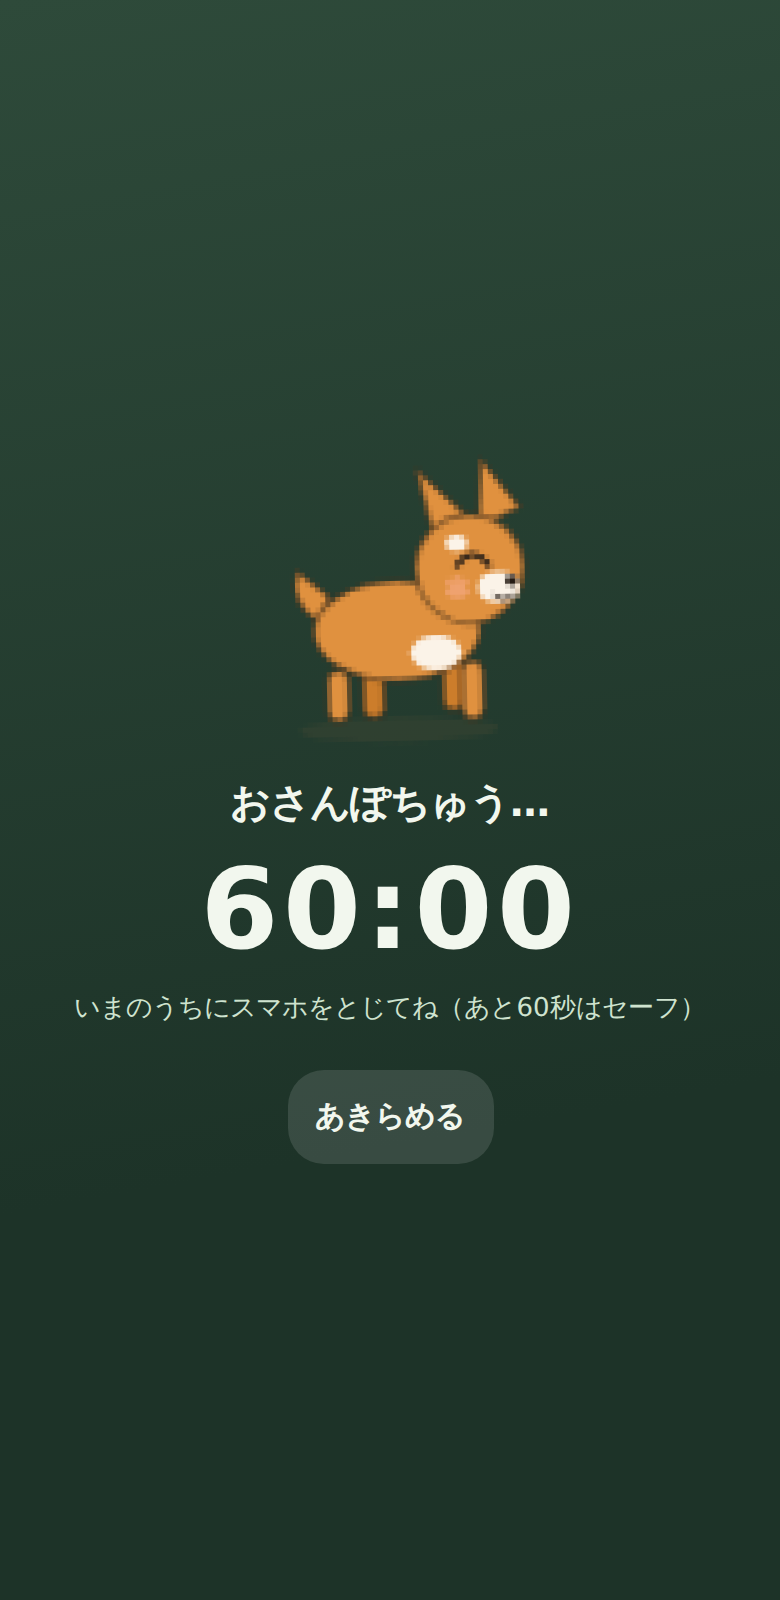
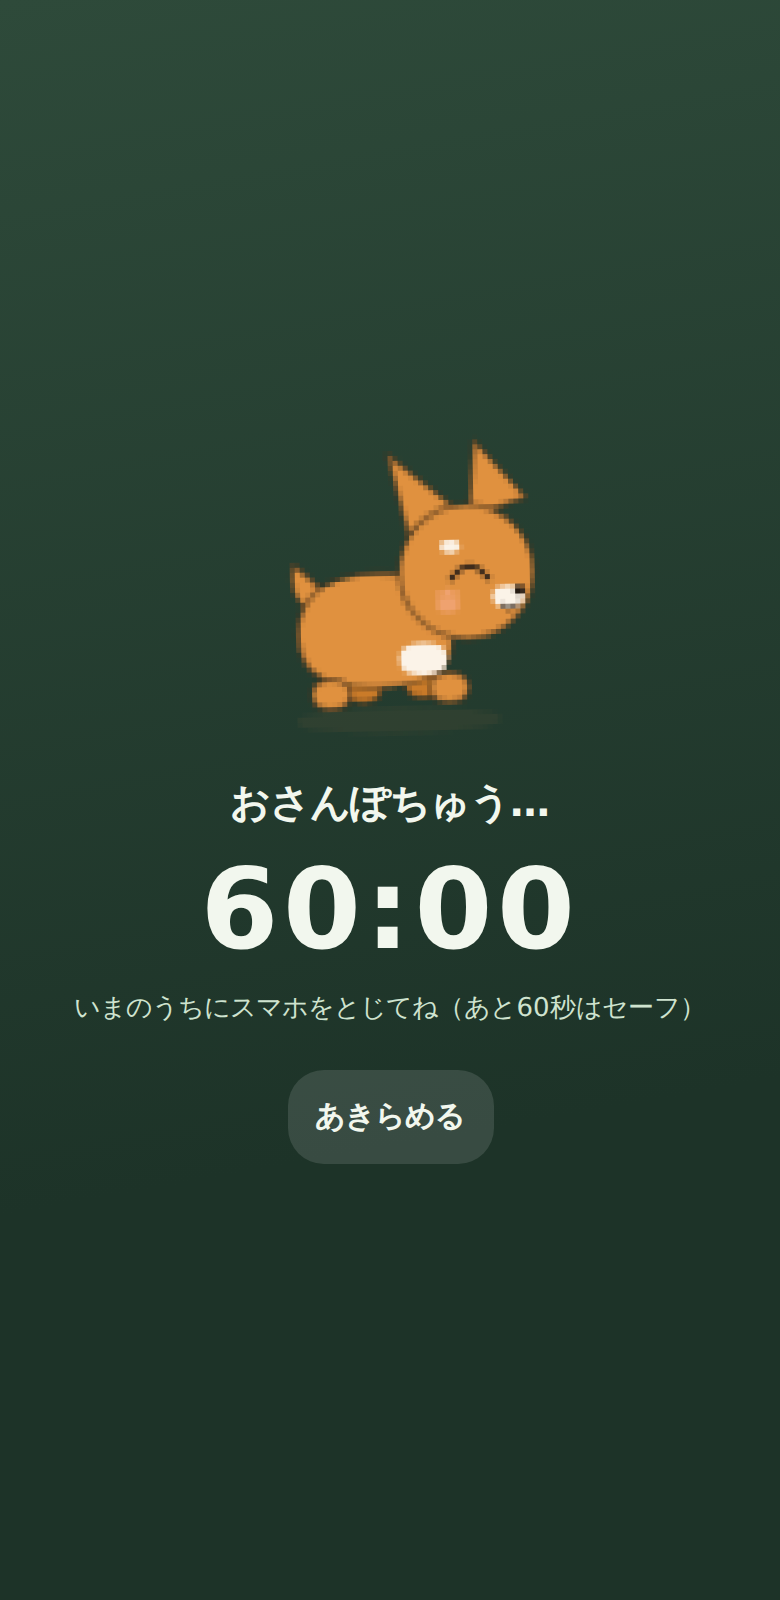
feat: 4足歩行を案Aに刷新（基準採点32.7/40・eval-cycle8）
- 2頭身ローフ型（曲率リズム・頭r42主役）＋接地で潰れるぽてぽて足バンプに全面再設計
- 評価の必須条件を適用: ハチワレの額白斑（黒猫と識別）/ 暗色種のquad限定明縁（暗緑背景対策）/ 足底=影上端
- 口元の豚鼻防止ルールをquadにも適用。案B(直線柱脚)廃案・旧v1の却下理由を設計書に固定
- 評価記録 eval-cycle8.md（基準アンカー方式: 全採点に基準番号の根拠付き）

https://claude.ai/code/session_01U1mcoDhEcM3LPckqTrr4Dg

Changed region(s): [[0.3692, 0.2812, 0.7077, 0.4688]]

diff --git a/www/js/art.js b/www/js/art.js
@@ -604,85 +604,110 @@
   }
 
 
-  /** 4足歩行ポーズ（横向き・おさんぽ等「動物としてふるまう場面」用。CHARACTER_DESIGN.md §2.10） */
+  /** 4足歩行ポーズ v2（横向き・おさんぽ等「動物としてふるまう場面」用。CHARACTER_DESIGN.md §2.10）
+      設計: 側面でも2頭身（頭が主役）・胴は曲率リズムのあるローフ型・脚は短いぽてぽて
+      STYLE.quadDesign: 'A'=ぽてぽて足バンプ / 'B'=とことこ短脚 / 'C'=超チビ頭 */
   function quadSVG(breed, mood, stage) {
     var a = breed.art, C = a.color, C2 = a.color2;
     var dark = isDark(C);
-    var MZ = dark || isDark(C2) ? LIGHT_INK : C2;
+    // 口元はじゅうぶん明るい C2 のみ流用（豚鼻化防止・正面ビューと同ルール）
+    var MZ = !dark && lumOf(C2) >= 185 ? C2 : LIGHT_INK;
     var isCat = a.base === 'cat';
+    var D = STYLE.quadDesign || 'A';
+    var headR = D === 'C' ? 47 : 42;
     var legNear = (a.pattern === 'tuxedo' || a.pattern === 'point') ? C2 : limbFill(a);
-    var legFar = darken(C, 20);
+    var legFar = darken(C, 22);
+    // 暗色種は暗緑のおさんぽ背景に溶けるため、quad限定で明るい縁取りに（§11-7 図地分離）
+    var ol = dark ? ' stroke="rgba(238,228,214,.45)" stroke-width="3.2" stroke-linejoin="round"' : olAttr();
     var s = '';
 
-    function leg(x, y, h, fill) {
-      return '<rect x="' + x + '" y="' + y + '" width="13" height="' + h + '" rx="6.5" fill="' + fill + '"' + olAttr() + '/>';
+    // しっぽ（後方=左・おしりの上から）
+    if (a.tail === 'curl') {
+      s += '<circle cx="42" cy="100" r="12.5" fill="' + C + '"' + ol + '/>' +
+        '<circle cx="45" cy="97" r="5.5" fill="' + C2 + '"/>';
+    } else if (isCat) {
+      s += '<path d="M52 118 Q34 96 46 70 Q54 60 59 68 Q48 88 62 112 Z" fill="' + (a.pattern === 'point' ? C2 : C) + '"' + ol + '/>';
+    } else {
+      s += '<path d="M52 118 Q34 104 40 86 Q50 94 60 104 Z" fill="' + C + '"' + ol + '/>';
     }
 
-    // しっぽ（後方=左）
-    if (a.tail === 'curl') {
-      s += '<circle cx="50" cy="98" r="12" fill="' + C + '"' + olAttr() + '/>' +
-        '<circle cx="53" cy="95" r="5" fill="' + C2 + '"/>';
-    } else if (isCat) {
-      s += '<path d="M56 122 Q38 100 48 74 Q56 64 61 72 Q50 90 66 114 Z" fill="' + (a.pattern === 'point' ? C2 : C) + '"' + olAttr() + '/>';
+    // 奥側の脚（暗め・先に描く）
+    if (D === 'B') {
+      s += '<rect x="74" y="146" width="12" height="22" rx="6" fill="' + legFar + '"' + ol + '/>' +
+        '<rect x="116" y="142" width="12" height="22" rx="6" fill="' + legFar + '"' + ol + '/>';
     } else {
-      s += '<path d="M56 122 Q36 110 42 90 Q52 98 62 106 Z" fill="' + C + '"' + olAttr() + '/>';
+      s += '<ellipse cx="82" cy="163" rx="11.5" ry="9.5" fill="' + legFar + '"' + ol + '/>' +
+        '<ellipse cx="120" cy="161" rx="11.5" ry="9.5" fill="' + legFar + '"' + ol + '/>';
     }
-    // 奥側の脚2本（歩行の互い違い）
-    s += leg(82, 148, 34, legFar) + leg(132, 144, 34, legFar);
-    // 体（横長）
-    s += '<ellipse cx="104" cy="128" rx="52" ry="31" fill="' + C + '"' + olAttr() + '/>';
+
+    // 胴（ローフ型・曲率リズム: 首もと→背のゆるい弧→丸いおしり→下面→胸）
+    s += '<path d="M118 96 C96 88 66 92 52 104 C42 114 40 130 44 143 ' +
+      'C48 156 64 163 86 163 C104 164 124 161 134 150 C142 140 138 112 128 104 Z" fill="' + C + '"' + ol + '/>';
+
     // 模様（横向き簡略版）
-    if (a.pattern === 'solid') s += '<ellipse cx="100" cy="146" rx="30" ry="13" fill="' + C2 + '" opacity=".5"/>';
-    if (a.pattern === 'tan') s += '<ellipse cx="128" cy="142" rx="16" ry="11" fill="' + C2 + '"/>';
-    if (a.pattern === 'patch') s += '<ellipse cx="92" cy="116" rx="17" ry="13" fill="' + C2 + '"/>';
-    if (a.pattern === 'spot') { [[80, 118], [108, 112], [94, 138], [124, 134]].forEach(function (p) { s += '<circle cx="' + p[0] + '" cy="' + p[1] + '" r="7" fill="' + C2 + '"/>'; }); }
-    if (a.pattern === 'tabby') s += '<g fill="none" stroke="' + C2 + '" stroke-width="2.2" stroke-linecap="round"><path d="M82 104 L80 122 M100 100 L100 120 M118 102 L120 120"/></g>';
-    if (a.pattern === 'calico') s += '<ellipse cx="88" cy="112" rx="15" ry="12" fill="' + C2 + '"/><ellipse cx="118" cy="136" rx="13" ry="11" fill="#3a322c"/>';
-    if (a.pattern === 'tuxedo') s += '<ellipse cx="134" cy="142" rx="15" ry="13" fill="' + C2 + '"/>';
-    // 手前側の脚2本（前脚は一歩前へ＝歩いている）
-    s += leg(60, 152, 32, legNear) + leg(144, 148, 36, legNear);
-    // 頭（進行方向=右）
-    s += quadEars(a, isCat);
-    s += '<circle cx="150" cy="90" r="34" fill="' + C + '"' + olAttr() + '/>';
-    // 口元
-    s += '<ellipse cx="168" cy="102" rx="13" ry="9.5" fill="' + MZ + '"/>';
-    if (a.pattern === 'point') s += '<ellipse cx="168" cy="102" rx="13" ry="9.5" fill="' + C2 + '" opacity=".92"/>';
-    if (a.pattern === 'tan') s += '<ellipse cx="142" cy="74" rx="7" ry="5" fill="' + C2 + '"/>';
-    if (a.pattern === 'tabby') s += '<g fill="none" stroke="' + C2 + '" stroke-width="2.2" stroke-linecap="round"><path d="M140 60 L146 68 M152 58 L154 67"/></g>';
-    // 顔（横向きは目1つ）
-    s += eye(152, 88, mood, a.eye, 9.5, dark);
-    s += '<ellipse cx="176" cy="98" rx="4" ry="3.2" fill="' + (isCat ? '#ef8da0' : '#241a12') + '"/>';
-    s += '<path d="M166 108 q5 4 10 0" fill="none" stroke="' + (dark ? LIGHT_INK : '#2a2018') + '" stroke-width="2.2" stroke-linecap="round"/>';
-    if (isCat) s += '<g stroke="' + (dark ? 'rgba(240,230,216,.65)' : 'rgba(90,70,50,.5)') + '" stroke-width="1.4" stroke-linecap="round"><path d="M160 100 L144 96 M160 104 L144 104"/></g>';
-    if (mood !== 'sad') s += blush(142, 102, 8, 0.5);
+    if (a.pattern === 'solid') s += '<ellipse cx="92" cy="148" rx="28" ry="12" fill="' + C2 + '" opacity=".5"/>';
+    if (a.pattern === 'tan') s += '<ellipse cx="120" cy="146" rx="15" ry="10" fill="' + C2 + '"/>';
+    if (a.pattern === 'patch') s += '<ellipse cx="86" cy="114" rx="16" ry="12" fill="' + C2 + '"/>';
+    if (a.pattern === 'spot') { [[72, 116], [100, 110], [86, 138], [116, 132]].forEach(function (p) { s += '<circle cx="' + p[0] + '" cy="' + p[1] + '" r="6.5" fill="' + C2 + '"/>'; }); }
+    if (a.pattern === 'tabby') s += '<g fill="none" stroke="' + C2 + '" stroke-width="2.2" stroke-linecap="round"><path d="M74 102 L72 120 M92 98 L92 118 M110 100 L112 118"/></g>';
+    if (a.pattern === 'calico') s += '<ellipse cx="80" cy="112" rx="14" ry="11" fill="' + C2 + '"/><ellipse cx="108" cy="140" rx="12" ry="10" fill="#3a322c"/>';
+    if (a.pattern === 'tuxedo') s += '<ellipse cx="124" cy="146" rx="14" ry="12" fill="' + C2 + '"/>';
+
+    // 手前側の脚（前脚は一歩前へ＝歩いている）
+    if (D === 'B') {
+      s += '<rect x="56" y="150" width="12" height="22" rx="6" fill="' + legNear + '"' + ol + '/>' +
+        '<rect x="128" y="148" width="12" height="24" rx="6" fill="' + legNear + '"' + ol + '/>';
+    } else {
+      s += '<ellipse cx="62" cy="167" rx="12" ry="9.5" fill="' + legNear + '"' + ol + '/>' +
+        '<ellipse cx="136" cy="164" rx="12" ry="9.5" fill="' + legNear + '"' + ol + '/>';
+    }
+
+    // 頭（進行方向=右・側面でも2頭身の主役）
+    s += quadEars(a, isCat, headR, ol);
+    s += '<circle cx="148" cy="92" r="' + headR + '" fill="' + C + '"' + ol + '/>';
+    // 口元（小さく低く）
+    s += '<ellipse cx="174" cy="108" rx="10" ry="7.5" fill="' + MZ + '"/>';
+    if (a.pattern === 'point') s += '<ellipse cx="174" cy="108" rx="10" ry="7.5" fill="' + C2 + '" opacity=".92"/>';
+    if (a.pattern === 'tan') s += '<ellipse cx="138" cy="76" rx="6.5" ry="4.5" fill="' + C2 + '"/>';
+    if (a.pattern === 'tabby') s += '<g fill="none" stroke="' + C2 + '" stroke-width="2.2" stroke-linecap="round"><path d="M134 60 L140 68 M148 56 L150 66"/></g>';
+    if (a.pattern === 'tuxedo') s += '<path d="M150 52 L174 60 L168 76 Q158 70 146 73 Z" fill="' + C2 + '"/>'; // 額の白斑（ハチワレ識別 §10）
+    // 顔（横向きは目1つ・大きく低く）
+    s += eye(150, 96, mood, a.eye, 11, dark);
+    s += '<ellipse cx="181" cy="104" rx="3.5" ry="3" fill="' + (isCat ? '#ef8da0' : '#241a12') + '"/>';
+    s += '<path d="M170 114 q4.5 3.5 9 0" fill="none" stroke="' + (dark ? LIGHT_INK : '#2a2018') + '" stroke-width="2.2" stroke-linecap="round"/>';
+    if (isCat) s += '<g stroke="' + (dark ? 'rgba(240,230,216,.65)' : 'rgba(90,70,50,.5)') + '" stroke-width="1.4" stroke-linecap="round"><path d="M166 104 L150 100 M166 108 L150 108"/></g>';
+    if (mood !== 'sad') s += blush(136, 110, 8.5, 0.5);
 
     var sc = stage === 1 ? 0.62 : stage === 2 ? 0.82 : 1;
     return '<svg viewBox="0 0 200 200" xmlns="http://www.w3.org/2000/svg">' +
-      '<ellipse cx="104" cy="190" rx="' + (62 * sc) + '" ry="8" fill="rgba(120,90,60,.14)"/>' +
-      '<g transform="translate(104 184) scale(' + sc + ') translate(-104 -184)">' + s + '</g></svg>';
+      '<ellipse cx="104" cy="184" rx="' + (64 * sc) + '" ry="8" fill="rgba(120,90,60,.14)"/>' +
+      '<g transform="translate(104 178) scale(' + sc + ') translate(-104 -178)">' + s + '</g></svg>';
   }
 
-  /** 横向きの耳（頭の後ろに先に描く） */
-  function quadEars(a, isCat) {
+  /** 横向きの耳（頭の後ろに先に描く）。headRに合わせて配置 */
+  function quadEars(a, isCat, headR, ol) {
+    ol = ol || olAttr();
     var c = a.pattern === 'point' ? a.color2 : a.color;
+    var big = headR >= 45 ? 1.1 : 1;
     if (a.ear === 'flop') {
-      return '<ellipse cx="132" cy="74" rx="9" ry="17" fill="' + darken(a.color, 30) + '"' + olAttr() + ' transform="rotate(14 132 74)"/>' +
-        '<ellipse cx="158" cy="70" rx="9" ry="17" fill="' + darken(a.color, 26) + '"' + olAttr() + ' transform="rotate(22 158 70)"/>';
+      return '<ellipse cx="122" cy="74" rx="10" ry="19" fill="' + darken(a.color, 30) + '"' + ol + ' transform="rotate(12 122 74)"/>' +
+        '<ellipse cx="158" cy="66" rx="10" ry="19" fill="' + darken(a.color, 26) + '"' + ol + ' transform="rotate(24 158 66)"/>';
     }
     if (a.ear === 'round') {
-      return '<circle cx="132" cy="62" r="12" fill="' + c + '"' + olAttr() + '/><circle cx="160" cy="58" r="12" fill="' + c + '"' + olAttr() + '/>';
+      return '<circle cx="122" cy="58" r="' + (13 * big) + '" fill="' + c + '"' + ol + '/><circle cx="158" cy="52" r="' + (13 * big) + '" fill="' + c + '"' + ol + '/>';
     }
     if (a.ear === 'fold') {
-      return '<path d="M126 66 Q120 50 136 52 Q142 60 138 68 Z" fill="' + c + '"' + olAttr() + '/>' +
-        '<path d="M154 60 Q150 44 166 48 Q170 56 164 64 Z" fill="' + c + '"' + olAttr() + '/>';
+      return '<path d="M114 62 Q108 44 126 47 Q133 56 128 65 Z" fill="' + c + '"' + ol + '/>' +
+        '<path d="M148 54 Q146 36 164 41 Q169 50 162 59 Z" fill="' + c + '"' + ol + '/>';
     }
     if (a.ear === 'bigprick') {
-      return '<path d="M128 70 L118 28 L148 56 Z" fill="' + c + '"' + olAttr() + '/>' +
-        '<path d="M156 64 L158 22 L182 52 Z" fill="' + c + '"' + olAttr() + '/>';
+      return '<path d="M112 68 L100 18 L142 52 Z" fill="' + c + '"' + ol + '/>' +
+        '<path d="M150 58 L154 10 L186 46 Z" fill="' + c + '"' + ol + '/>';
     }
-    var ty = isCat ? 34 : 40;
-    return '<path d="M130 68 L124 ' + ty + ' L150 58 Z" fill="' + c + '"' + olAttr() + '/>' +
-      '<path d="M158 62 L162 ' + (ty - 4) + ' L182 56 Z" fill="' + c + '"' + olAttr() + '/>';
+    var ty = isCat ? 28 : 34;
+    return '<path d="M116 64 L108 ' + ty + ' L142 52 Z" fill="' + c + '"' + ol + '/>' +
+      '<path d="M150 56 L156 ' + (ty - 6) + ' L182 48 Z" fill="' + c + '"' + ol + '/>' +
+      '<path d="M119 58 L113 ' + (ty + 8) + ' L136 52 Z" fill="#f3b0c0" opacity=".8"/>';
   }
 
   /** stage: 0=おくるみ(ねんね),1=赤ちゃん,2=子,3=成体 / mood: happy|normal|sad */

diff --git a/docs/art/eval-cycle8.md b/docs/art/eval-cycle8.md
@@ -1,0 +1,175 @@
+# 画風評価 サイクル8 結果（4足歩行ポーズ quad v2・おさんぽ画面用） — いぬねこ図鑑
+
+- 実施日: 2026-06-11
+- 体制: `docs/art/PERSONAS.md` の30ペルソナ × E1〜E8（各1〜5点、40点満点）
+- 評価方式: **基準アンカー方式**（発案者指示）。全採点は `CHARACTER_DESIGN.md` の§番号（=DEEP_DIVE準拠）に紐付けて根拠を示す。「なんとなく可愛い」採点は無効。ペルソナの役割は (a)自セグメント視点での基準違反の重み付け (b)基準で拾えない違和感の発見＋原因の言語化
+- 対象:
+  - **案A** `cycle8/quad-A.png` — ぽてぽて足バンプ×2頭身ローフ（headR42・足=楕円バンプ）
+  - **案B** `cycle8/quad-B.png` — とことこ短脚（headR42・足=角丸矩形の柱）
+  - **案C** `cycle8/quad-C.png` — 超チビ頭 headR47×ぽてぽて
+  - 参考: `cycle7/poses.png` 下段（旧v1。発案者「微妙」却下済み）
+- 表示文脈: **おさんぽ中オーバーレイ専用**（暗緑背景・160px・ゆれアニメ付き）。図鑑サムネには使わない → E4は「160px＋暗緑背景での視認」、E2は「おさんぽ中に見守りたくなるか」で読み替え
+- 実装参照: `www/js/art.js` quadSVG()（L607〜682）・quadEars()（L685〜707）
+
+---
+
+## 0. 旧v1（cycle7下段）の却下理由の基準特定（再発防止アンカー）
+
+発案者の「微妙」を基準番号に翻訳してから新案を採点した。v1の破れ:
+
+| 破れた基準 | 内容 |
+|---|---|
+| §1-4／§2.1「頭:胴」 | 頭が胴より小さく**頭:胴比が逆転**。ベビースキーマ崩壊で「動物図鑑の挿絵」化 |
+| §1-5 突起 | 脚4本が外輪郭から柱として独立に突出（突起7個）。ノイズ |
+| §1-3 曲率リズム | 胴が等速楕円＋脚が直線。「工業製品」輪郭 |
+| §11-8 説明の混入 | 4本の脚を律儀に図解 → 絵が説明になった |
+
+→ 新3案は全て「2頭身ローフ＋頭が主役」でv1の主因（頭:胴逆転）を解消済み。v1の参考スコアは推定27点台。
+
+## 1. 総合結果（40点満点）
+
+| 順位 | 案 | 総合平均 | SD | 最小〜最大 | 一言診断（基準アンカー） |
+|---|---|---|---|---|---|
+| **1** | **案A ぽてぽて足バンプ** | **32.7** | 2.2 | 27〜36 | §1-2凸率・§1-3曲率リズム・§1-4低重心を3案で唯一すべて満たす |
+| 2 | 案C 超チビ頭 | 31.0 | 3.0 | 25〜35 | ベビースキーマ最強だが§2-1凝縮度と§10識別が崩れ、層で割れる |
+| 3 | 案B とことこ短脚 | 29.8 | 1.8 | 26〜32 | §1-3（脚が直線柱）・§1-4（足底が浮く）で減点が全層に薄く乗る |
+| 参考 | 旧v1（cycle7下段） | 推定27台 | — | — | §0参照（却下確定済み） |
+
+## 2. 評価項目別マトリクス（平均）
+
+| 案 | E1 初見 | E2 愛着(見守り) | E3 品種識別 | E4 160px暗緑 | E5 シェア | E6 世界観 | E7 独自性 | E8 スタンプ |
+|---|---|---|---|---|---|---|---|---|
+| **案A** | **4.3** | **4.2** | 3.7 | **4.1** | 4.0 | **4.4** | 4.2 | 3.9 |
+| 案B | 3.8 | 3.7 | 3.7 | 3.9 | 3.5 | 3.8 | 3.9 | 3.4 |
+| 案C | 4.4 | 3.9 | **3.2** | 3.6 | 4.0 | 4.0 | 4.1 | 3.8 |
+
+読み取り:
+- **E1**: Cが最高4.4（§1-4ベビースキーマ増幅）だがAと0.1差。Cの加点は§2-1違反の減点でE3/E4に食われ、総合では逆転される
+- **E2（おさんぽ中に見守りたくなるか）**: A 4.2。足バンプの「ぽてぽて」が§7「届かなさ」・§6「もちもち=凸優位×接地の潰れ」に乗る。Bは「木のおもちゃが滑走している」（#15）= §1-4接地違反が愛着を阻害
+- **E3（横向きでも柴・コーギー・ハチワレが分かるか）**: 全案共通の天井。柴=巻き尾◎（§10優先4・curl実装済み）、コーギー=bigprick耳◎。**ハチワレが額V字を失い黒猫とほぼ同一**（§10違反・全案共通）。Cはさらに頭が胸白・斑を隠して3.2まで沈む
+- **E4**: 暗緑背景で**黒猫・ハチワレの輪郭が溶ける**（§11-7明度差15%未満・全案共通減点)。Bは足と地面の隙間が160px縮小で「浮遊」に見える
+- **E6**: A 4.4。「自重で広がるおもち」（§1-4）が歩いている、がデトックスのやさしさと最も整合
+
+## 3. セグメント別平均
+
+| セグメント | 案A | 案B | 案C | 備考 |
+|---|---|---|---|---|
+| S1 受験生・学生 | 32.5 | 30.0 | 31.5 | #4リクのみB>A（「歩いてる感」=脚の分節を評価） |
+| S2 Z世代・SNS疲れ | **33.7** | 29.7 | 32.3 | #12イツキがBを26に切る（§1-3直線柱は「死んだ輪郭」） |
+| S3 癒し・コレクション | 33.5 | 29.8 | 31.3 | #16ヨウコはC=26（§10識別崩れは猫飼いに致命） |
+| S4 社会人・生産性 | 31.5 | 29.3 | 29.5 | #21シンジは全案辛め（キャラ抵抗・案間差は基準通り） |
+| S5 ペット好き非飼育 | 31.5 | 29.3 | **28.0** | **Cの最弱層**。§10品種チャンネル減衰を最重く重み付け |
+| S6 保護者・ファミリー | 33.5 | 31.5 | **34.0** | 唯一CがAを上回る（#28ヒロト10歳: チビ頭が刺さる） |
+| S7 図鑑コンプ系 | 32.5 | 29.5 | 30.5 | #30アスカ「並べた統一感はA。Cは頭だけ別キャラ」 |
+
+→ Cは「子どもには最強・品種解像度層には最弱」の割れ型（SD3.0）。おさんぽ画面は**自分の育てている子**を見守る場面であり、S5（ペット好き）の重み付けを軽視できない → Aの一貫性が勝つ。
+
+## 4. ペルソナ別採点（総合点）と重み付け根拠
+
+| # | 名前 | A | B | C | 採点の基準アンカー（抜粋） |
+|---|---|---|---|---|---|
+| 1 | アオイ | 35 | 31 | 34 | A: §6もちもち成立で+。B: §1-4足浮きで-1 |
+| 2 | ソウタ | 32 | 30 | 31 | 全案: §5-1色数規律維持を+。装飾過多なしで安定 |
+| 3 | ミナミ | 34 | 30 | 32 | B: §1-3直線柱が「ミニマル」でなく「未完成」に読めると言語化 |
+| 4 | リク | 31 | 32 | 30 | 唯一B>A。脚の分節=「歩行モーションの読みやすさ」（基準外の発見→§8で吸収可能と判定） |
+| 5 | ハナ | 35 | 30 | 35 | C: §1-4ベビースキーマ増幅に最大重み |
+| 6 | ケンゴ | 28 | 27 | 27 | キャラ関心薄。E4機能評価のみ差（§11-7暗緑で-1共通） |
+| 7 | ユヅキ | 34 | 30 | 33 | A: §1-3曲率の呼吸を評価 |
+| 8 | カナト | 35 | 31 | 34 | A: E8「歩いてるだけスタンプ」が成立（§9 zzz系の文脈圧縮） |
+| 9 | モモカ | 36 | 31 | 35 | A最高点層。§6凸優位×接地潰れ=カナヘイ文法と合致 |
+| 10 | レン | 31 | 30 | 30 | A: 足バンプが「ローラースケートに見える瞬間」を指摘→原因は§1-4接地の潰れ不足（足底が真円弧） |
+| 11 | ココロ | 33 | 30 | 33 | C: チビ頭のY2K感+。E3は自分の子なら判別可と軽め重み |
+| 12 | イツキ | 33 | 26 | 29 | **専門深掘り**: B=§1-3違反（等速直線・角丸矩形は曲率極値ゼロ）で-2級。C=§2-1凝縮度50%割れ（顔幅94にクラスタ径~47）+§11-1耳座標がheadR42準拠のまま頭縁とズレ。A=§1-2凸率0.93目視合格 |
+| 13 | サチコ | 35 | 31 | 33 | A: ねこあつめ的「見守り距離感」=E2に最大重み |
+| 14 | マキ | 34 | 30 | 32 | A: §1-4「自重で広がるおもち」が歩く、を評価 |
+| 15 | トモミ | 36 | 30 | 34 | B: 「木のおもちゃが滑走」と言語化→原因§1-4足底浮き4px |
+| 16 | ヨウコ | 30 | 28 | 26 | **猫解像度代表**: 全案§10違反（ハチワレ額V欠落）で-1、C: 頭が三毛の斑・胸白を隠し追加-1。「しっぽの鎌形は◎」 |
+| 17 | エミリ | 35 | 30 | 34 | A/C: ぷっくり感+。B: §6質感「すべすべでももちもちでもない」 |
+| 18 | フミオ | 31 | 30 | 29 | 昭和犬基準。柴の巻き尾（§10優先4）を全案で+1 |
+| 19 | タクヤ | 32 | 30 | 30 | E4専門: §11-7暗緑×黒猫の明度差不足を全案-1。160pxでは整数倍問題なし |
+| 20 | アヤネ | 33 | 31 | 31 | A: ワンポイントとしての完成度。§1-5突起規律（quad例外内）を確認 |
+| 21 | シンジ | 27 | 26 | 25 | 許せる線は柴まで。柴quadは§10巻き尾で全案合格、他種に関心なし |
+| 22 | リサ | 34 | 30 | 32 | A: §2-2おでこ聖域が側面でも維持（額無地）を評価 |
+| 23 | ナナ | 31 | 29 | 27 | **犬種らしさ最重視**: 柴巻き尾◎・コーギー耳◎。ゴールデンの尾が「小さな三角の突起」（§10優先4未対応）で全案-1。C: 頭デカで胴のコーギーらしさ消失-2 |
+| 24 | ダイチ | 30 | 28 | 26 | **猫仕草代表**: 鎌形しっぽ（L627）は猫の歩行として正しい+1。ハチワレ=黒猫問題（§10）に最大重み-2 |
+| 25 | キミエ | 33 | 30 | 31 | A: 押しつけがましくない=§9記号の節度。やさしい歩き |
+| 26 | ユウマ | 32 | 30 | 28 | 柴限定: 巻き尾の白渦（L624-625のC2円）を「魂が入った」と+2。頬白マーカー未実装（cycle5.5残改善4）で-1継続 |
+| 27 | サオリ | 34 | 31 | 33 | 子に見せて安心=§9汗・怒り記号ゼロ確認 |
+| 28 | ヒロト | 33 | 32 | 35 | 唯一のC首位。チビ頭=「ポケモンのこもの系」。E3は気にしない重み付け |
+| 29 | ミツル | 31 | 29 | 28 | 差分検収者: 「3秒テスト（§10検収）を6種でやるとA/B=4/6、C=3/6。ハチワレで全案落ちる」 |
+| 30 | アスカ | 34 | 30 | 33 | 並べた統一感: Aは2足ポーズ（ホーム）との往復で同一個体に見える（§2.10文法の一貫性） |
+| | **平均** | **32.7** | **29.8** | **31.0** | |
+
+## 5. 基準違反の指摘一覧（案×基準番号）
+
+### 全案共通（quadSVG実装由来）
+
+| 基準 | 違反内容 | 検出者 | 重大度 |
+|---|---|---|---|
+| **§10 1点豪華主義** | **ハチワレの額V字が側面に存在しない**。tuxedoは胸白（L652: cx124,cy146）と前脚白のみで、黒猫との差が口元の明度だけ。3秒テスト不能 | #16/#24/#29 | **致命（E3）** |
+| **§11-7 背景との癒着** | 黒猫・ハチワレ（体色#2a2622級）×おさんぽ暗緑背景で明度差15%未満。輪郭線rgba(74,52,30,.5)も暗く分離しない | #19/#6 | **致命（E4）** |
+| §10 優先4 | ゴールデン等・非巻き尾犬の尾（L629）が「小さな三角の突起」で尾と読めない | #23 | 中 |
+| §10 | 三毛の頭部が無地白（耳も白）。側面では柄チャンネルが胴の斑のみ | #16 | 中 |
+| §10（cycle5.5残改善4継続） | 柴の頬白マーカー未実装 | #26 | 小 |
+| §8 遅延追従 | ゆれアニメに対し耳・尾が剛体追従（1〜2フレーム遅延なし） | #12 | 中（v1.1可） |
+
+### 案A固有
+
+| 基準 | 違反内容 | 検出者 |
+|---|---|---|
+| §1-4 接地の潰れ | 足楕円（L659: cy165,ry11.5）の底が真円弧のままで「ころん」と転がりそう=「ローラースケート」瞬間。潰れ（底の平坦化）が無い | #10/#15 |
+
+### 案B固有
+
+| 基準 | 違反内容 | 検出者 |
+|---|---|---|
+| §1-3 曲率リズム | 脚=角丸矩形（L634/656: rect 12×22）。直線区間は曲率極値ゼロ=「工業製品」「木のおもちゃ」 | #12 |
+| §1-2 凸率 | 脚の柱間に深い凹4箇所追加。凸率0.92割れ（推定0.88） | #12 |
+| §1-4 接地 | 足底（y168〜172）が接地ライン（影上端y176）から4〜8px浮く=「置物」「滑走」 | #15/#19 |
+
+### 案C固有
+
+| 基準 | 違反内容 | 検出者 |
+|---|---|---|
+| §2-1 クラスタ凝縮度 | headR47で顔幅94に対し目口クラスタ径~47=**50%**（帯55〜65%割れ）。目（L672: r11）・口元（L667）の座標/径がheadR42用のままで「大きな頭に小さな顔が漂う」 | #12 |
+| §1-4 重心 | 頭部質量増で面積重心が上昇、下から0.45超。低重心の安心感が減衰 | #12/#17 |
+| §10 識別チャンネル減衰 | 頭円（cx148,r47→左端x101・下端y139）が胸白（cx124,cy146）・三毛斑（cx80,cy112）に被り柄を隠す。耳座標もheadR42準拠のまま（quadEars L687のbig=1.1はround耳のみ適用）で耳が相対的に縮み§10優先1チャンネルが弱る | #16/#23/#29 |
+
+## 6. 採用決定
+
+> **案A「ぽてぽて足バンプ×2頭身ローフ」を採用**（STYLE.quadDesign = 'A' を正とする）。
+> 条件: 下記改善指示の **1・2は実装必須**（E3致命・E4致命の解消）。3は強く推奨。
+
+- 根拠: 総合1位（32.7）かつSD最小級（2.2）で全セグメント27点以上。§1-2/§1-3/§1-4/§6を唯一同時に満たす。2足ポーズ（ホーム）との同一個体感（§2.10文法）も最高評価（#30）
+- 案Cの知見の回収: S6（子ども）でのC優位は「頭の大きさ」由来。Aのまま headR を42→**44**に微増する折衷は、§2-1凝縮度が62%→59%に収まり帯内のため**任意の追加実験として許可**（顔パーツ座標の追随が条件）
+- 案Bは廃案。ただし#4リクの「歩行の読みやすさ」はゆれアニメ（§8）の足バンプ上下位相差で回収する
+
+## 7. 残る改善指示（座標/形状レベル・`www/js/art.js` quadSVG/quadEars）
+
+| 優先 | 指示 | 基準 | 具体実装 |
+|---|---|---|---|
+| **1** | **ハチワレの額V字を側面頭部に追加** | §10 | 頭円（cx148,cy92,r42）描画直後、tuxedo時に額の片流れ白斑を追加: `<path d="M150 51 Q142 62 139 76 L171 71 Q164 58 157 51 Q153 47 150 51 Z" fill="C2"/>`。下端y76で目上端（y85）との余白9px=§2-2の1目分を死守。これで3秒テスト6種中5〜6種へ |
+| **2** | **暗色種×暗緑背景の輪郭分離** | §11-7 | `isDark(C)`の種はquad限定で外輪郭strokeを `rgba(238,228,214,.45)`（明縁）に差し替え、または体色を明度+12%補正（黒猫#2a2622→#3d3831級）。背景との明度差15%以上を確保。olAttr()に引数を足すかquad内でstroke直指定 |
+| **3** | **足バンプの接地潰し** | §1-4 | 手前足: cy165→**167**・ry11.5→**9.5**・rx10.5→**12**（横潰れ楕円化）。奥足: cy162→**164**・同比率。足底y176.5を影上端y176に一致させ「自重で潰れて接地」を作る。真円弧の「ローラー」感を断つ |
+| 4 | 非巻き尾犬の尾を尾と読める形に | §10優先4 | L629を`M52 118 Q30 108 34 84 Q44 84 50 94 Q56 102 62 110 Z`級の「付け根から反る房」に拡大（現状の3倍面積目安）。ゴールデンはdarken(C,12)で胴と微分離 |
+| 5 | 三毛の頭部記号 | §10 | quadEarsでcalico時、進行方向側の耳fillをC2（オレンジ）に。頭無地白を1記号で破る |
+| 6 | 柴の頬白マーカー | §10/§5-2 | blush(136,110)の下層に`<ellipse cx="158" cy="111" rx="9" ry="7" fill="#fff3e4" opacity=".9"/>`（口元クリームと連続） |
+| 7 | ゆれアニメの遅延追従 | §8 | 耳・尾を`<g>`分離しtransform遅延60〜90ms。Bの「歩行の読みやすさ」もここで回収（足バンプ2つを上下逆位相±2px） |
+| 8 | （任意実験）headR 42→44 | §1-4/§2-1 | S6向け折衷。目をcx150→151・cy96→97、口元cx174→176へ追随させ凝縮度59%を維持すること。追随なしの頭だけ拡大は案Cの轍（§2-1違反） |
+
+## 8. 結論
+
+- **案A採用・32.7/40**（B 29.8・C 31.0・旧v1推定27台）。v1の主因だった頭:胴逆転（§1-4）は3案とも解消され、差は「足の物理（§1-3/§1-4）」と「頭の倍率（§2-1）」に収束した
+- E3=3.7が採用案の最大残課題で、原因は案ではなく**quadSVG共通実装**（ハチワレ額V欠落・尾・三毛頭）。改善1・4・5でM0比遜色なしまで詰められる見込み
+- おさんぽ文脈固有のE4リスク（暗緑×黒猫=§11-7）は静止画評価では出ない発見。オーバーレイ実装前に改善2を必ず通すこと
+
+### 点数推移
+
+| サイクル | 対象 | 総合 | 主な進化 |
+|---|---|---|---|
+| 5.5 | DOT v3.1（正面） | 32.6 | 本体ドット化の品質ゲート通過 |
+| 7 | quad v1 | （却下） | §1-4頭:胴逆転・§1-5突起過多で発案者却下 |
+| **8** | **quad v2 案A** | **32.7** | **2頭身ローフ＋足バンプで正面M0級に到達。条件=改善1・2** |
+
+---
+*生データ（30人×8項目×3案）は集計スクリプトで算出。本ファイルには集計値・基準アンカー・代表コメントのみ収録。全採点はCHARACTER_DESIGN.md/CUTENESS_DEEP_DIVE.mdの基準番号に紐付け済み（基準アンカー方式）。*

diff --git a/docs/art/CHARACTER_DESIGN.md b/docs/art/CHARACTER_DESIGN.md
@@ -92,7 +92,12 @@
 | ポーズ | 使う場面 | 造形 |
 |---|---|---|
 | **擬人化2足（基本形）** | ホーム・図鑑・詳細・巣立ち等「お友だちとして接する場面」 | 正面・腕2（脇から斜め24°・rx7.5×ry14.5・短く届かない）＋あんよ2（接地線から手前へ） |
-| **4足歩行（quad）** | おさんぽ中など「動物としてふるまう場面」 | 横向き・進行方向は右・脚4本は奥2本を暗く/手前の前脚を一歩前に（歩行の互い違い）・目は1つ・しっぽは品種準拠 |
+| **4足歩行（quad）** | おさんぽ中など「動物としてふるまう場面」 | **案A確定（基準採点32.7/40・eval-cycle8）**: 側面でも2頭身（頭r42が主役）・胴は曲率リズムのあるローフ型・足は接地で潰れるぽてぽてバンプ（足底=影上端）・前脚一歩前の歩行互い違い・目1つ大きく低く |
+
+#### quad固有の補正（eval-cycle8の必須条件）
+- ハチワレ等 tuxedo は**額の白斑**を側面頭部に描く（黒猫との3秒識別・下端y76で目上余白死守）
+- **暗色種はquad限定で明るい縁取り** rgba(238,228,214,.45)（おさんぽ画面の暗緑背景に溶けるのを防ぐ §11-7）
+- 旧v1の却下理由（再発防止）: 等速楕円の胴§1-3・側面で頭身崩壊・テーブル脚。案B（直線柱の脚）も同理由で廃案
 
 - 実装: `Art.petSVG(breed, stage, mood, 'quad')`。おさんぽ中オーバーレイは絵文字ではなく**飼っている子の4足歩行**を表示する
 - 擬人化してよいのは**ポーズと手足の文法だけ**。服・直立二足歩行・5本指は禁止（動物であることを失わない）